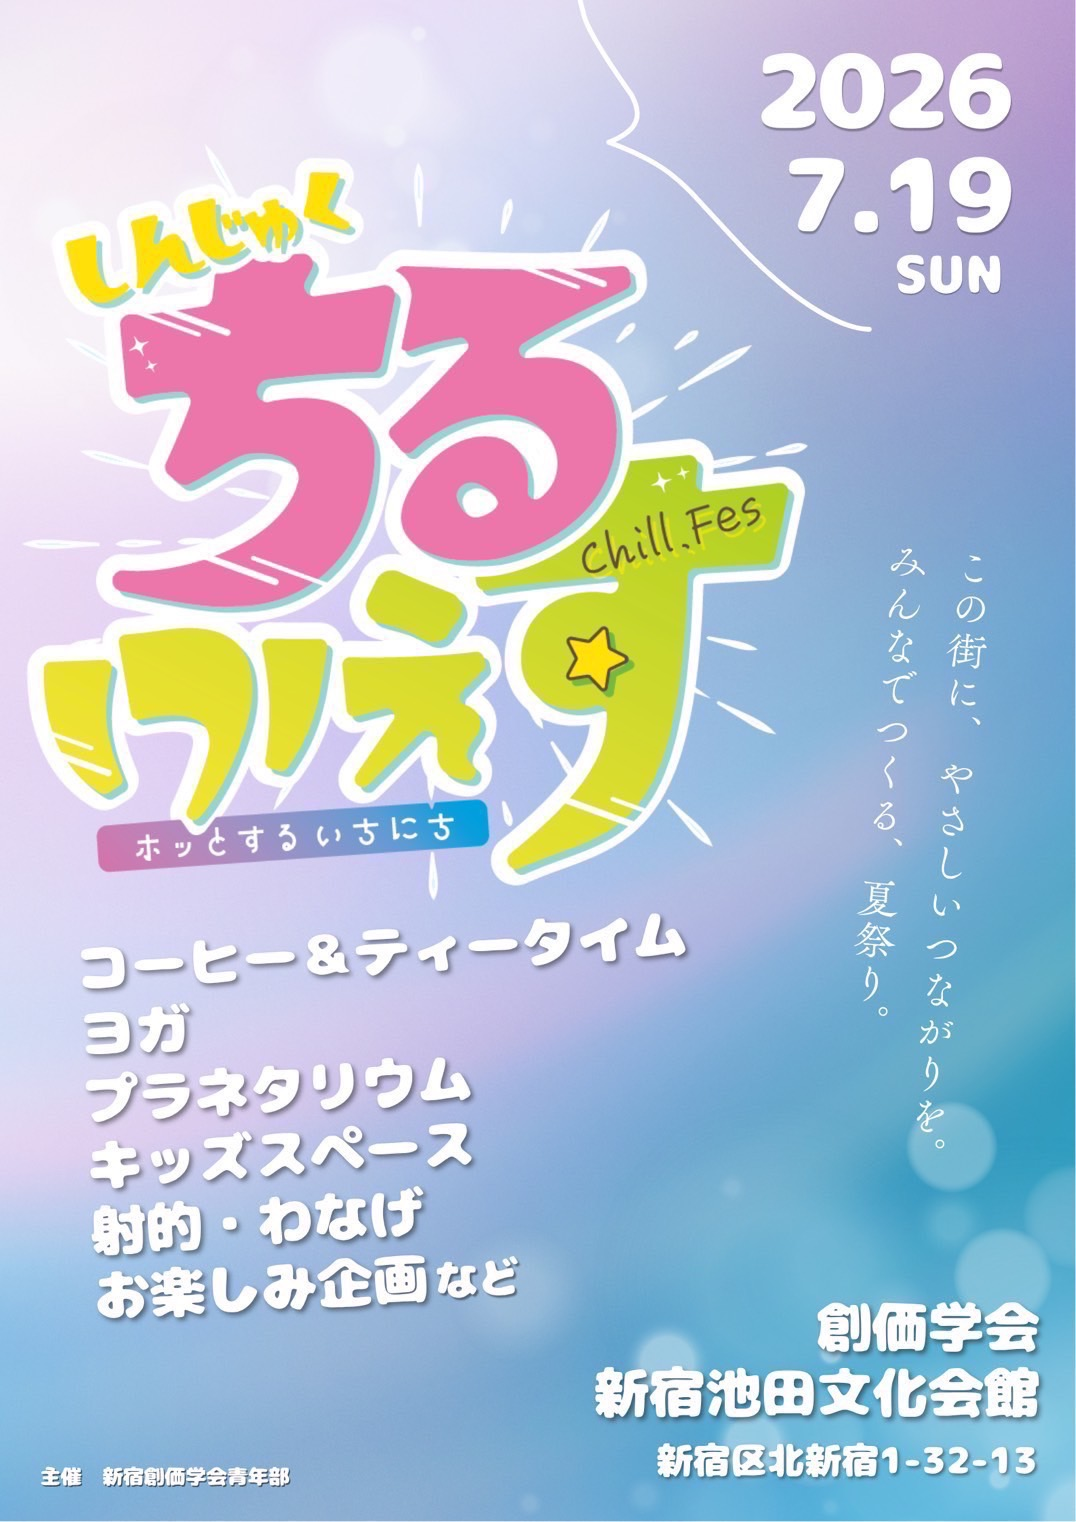
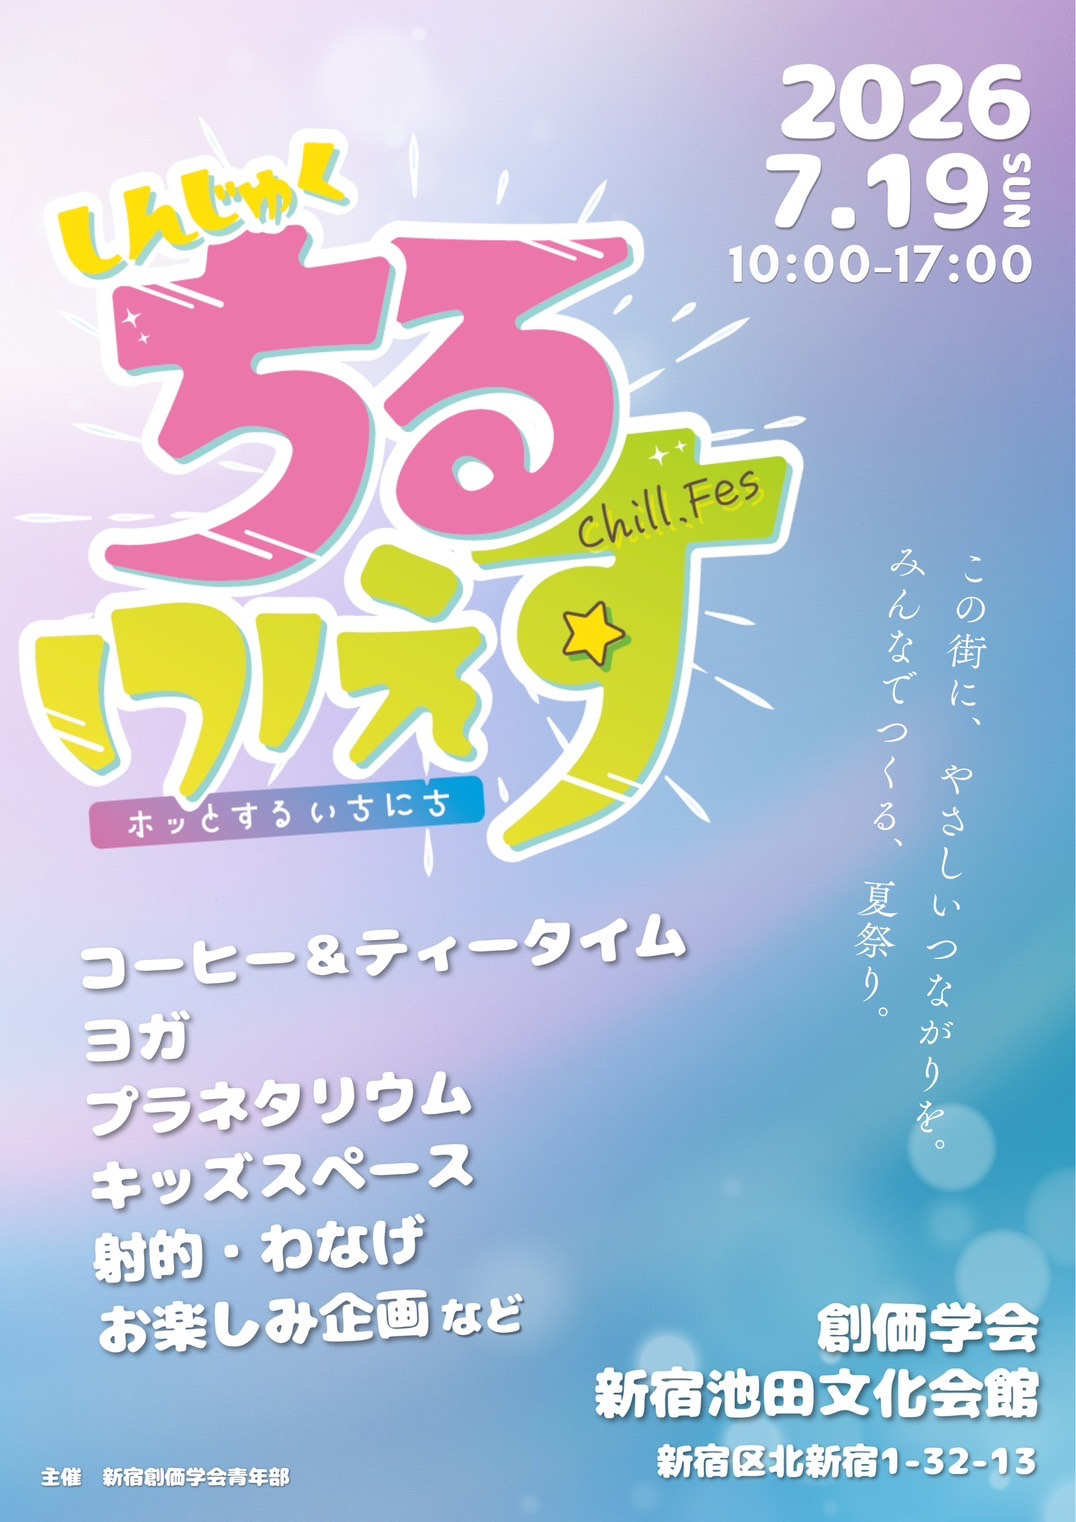
新宿: フライヤーを3枚に差し替え（メイン＋1F/2F会場MAP、大田と同形のカルーセル）

diff --git a/index.html b/index.html
@@ -5532,7 +5532,9 @@
       address: '東京都新宿区北新宿1-32-13',
       kidsSpace: 'あり',
       allowExternal: true,
-      flyer: 'assets/shinjuku-flyer.jpg',
+      flyer: 'assets/shinjuku-flyer-sm.jpg',
+      flyers: ['assets/shinjuku-flyer.jpg', 'assets/shinjuku-flyer-2.jpg', 'assets/shinjuku-flyer-3.jpg'],
+      flyersThumb: ['assets/shinjuku-flyer-sm.jpg', 'assets/shinjuku-flyer-2-sm.jpg', 'assets/shinjuku-flyer-3-sm.jpg'],
       youtube: null,
       linktree: null,
       description: '会場全体を使って展示や体験型ブースを設置。さらに、トークセッションなど誰でも参加できる企画も行います。子どもから大人までリラックスして楽しめる「チルい」イベント。「ゆるいつながりが大きな励ましになる」、そんなイベントになっています。皆さまぜひお越しください。'
